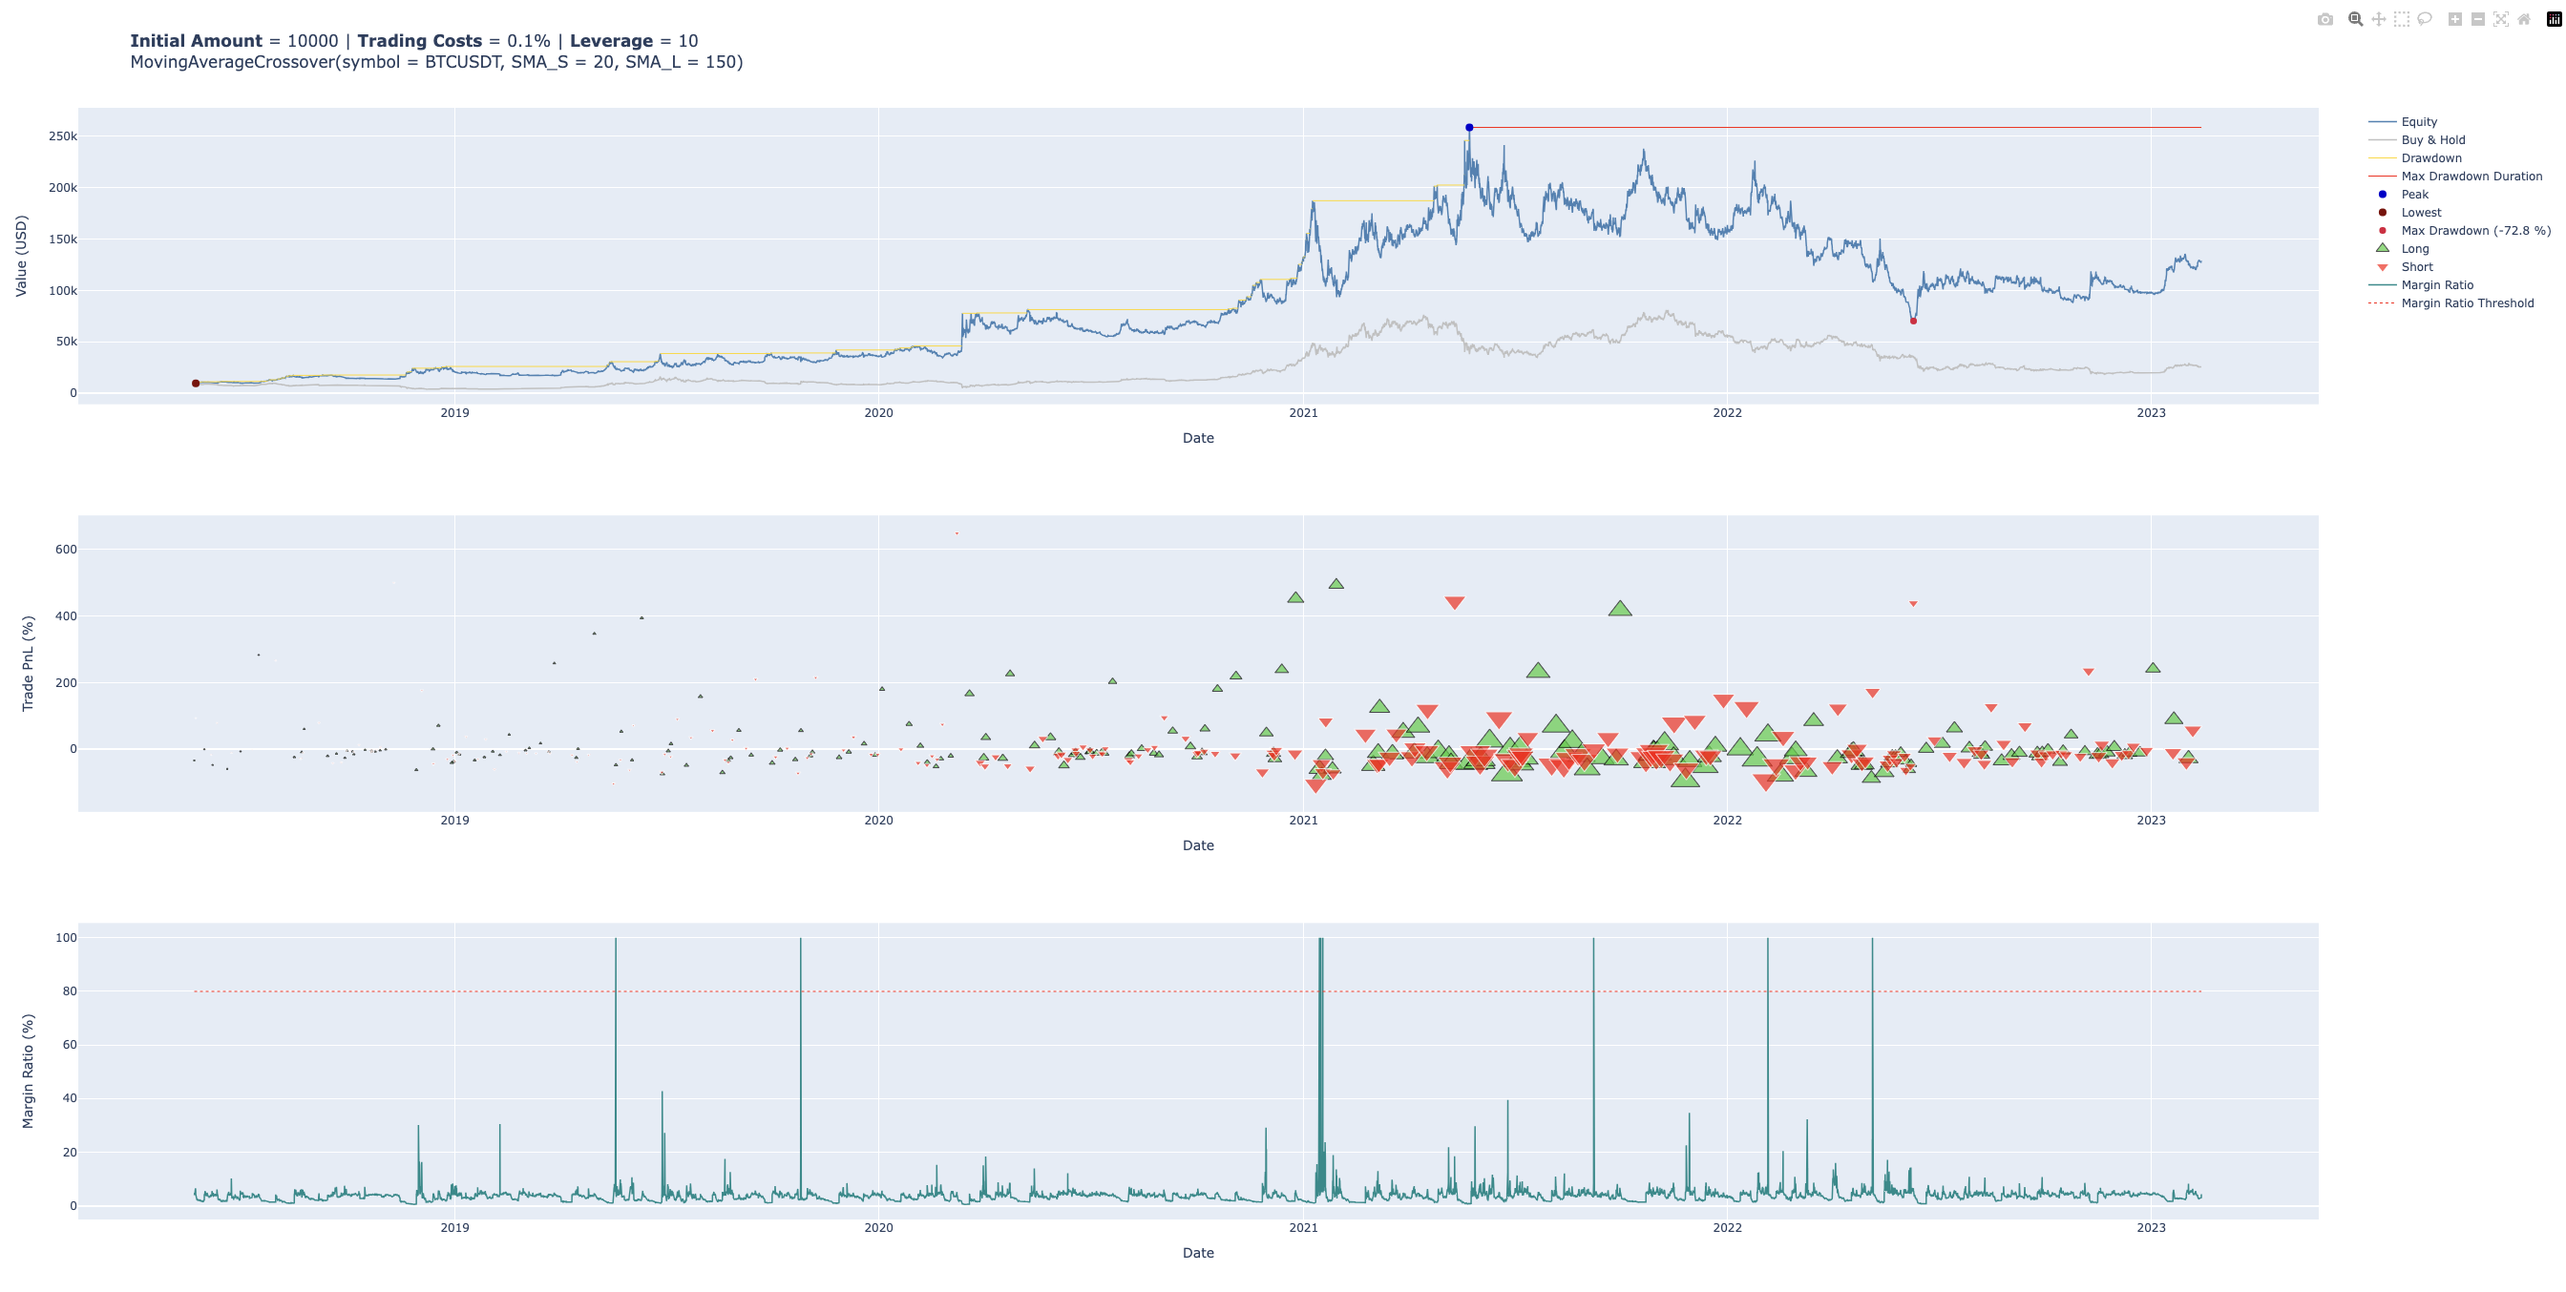
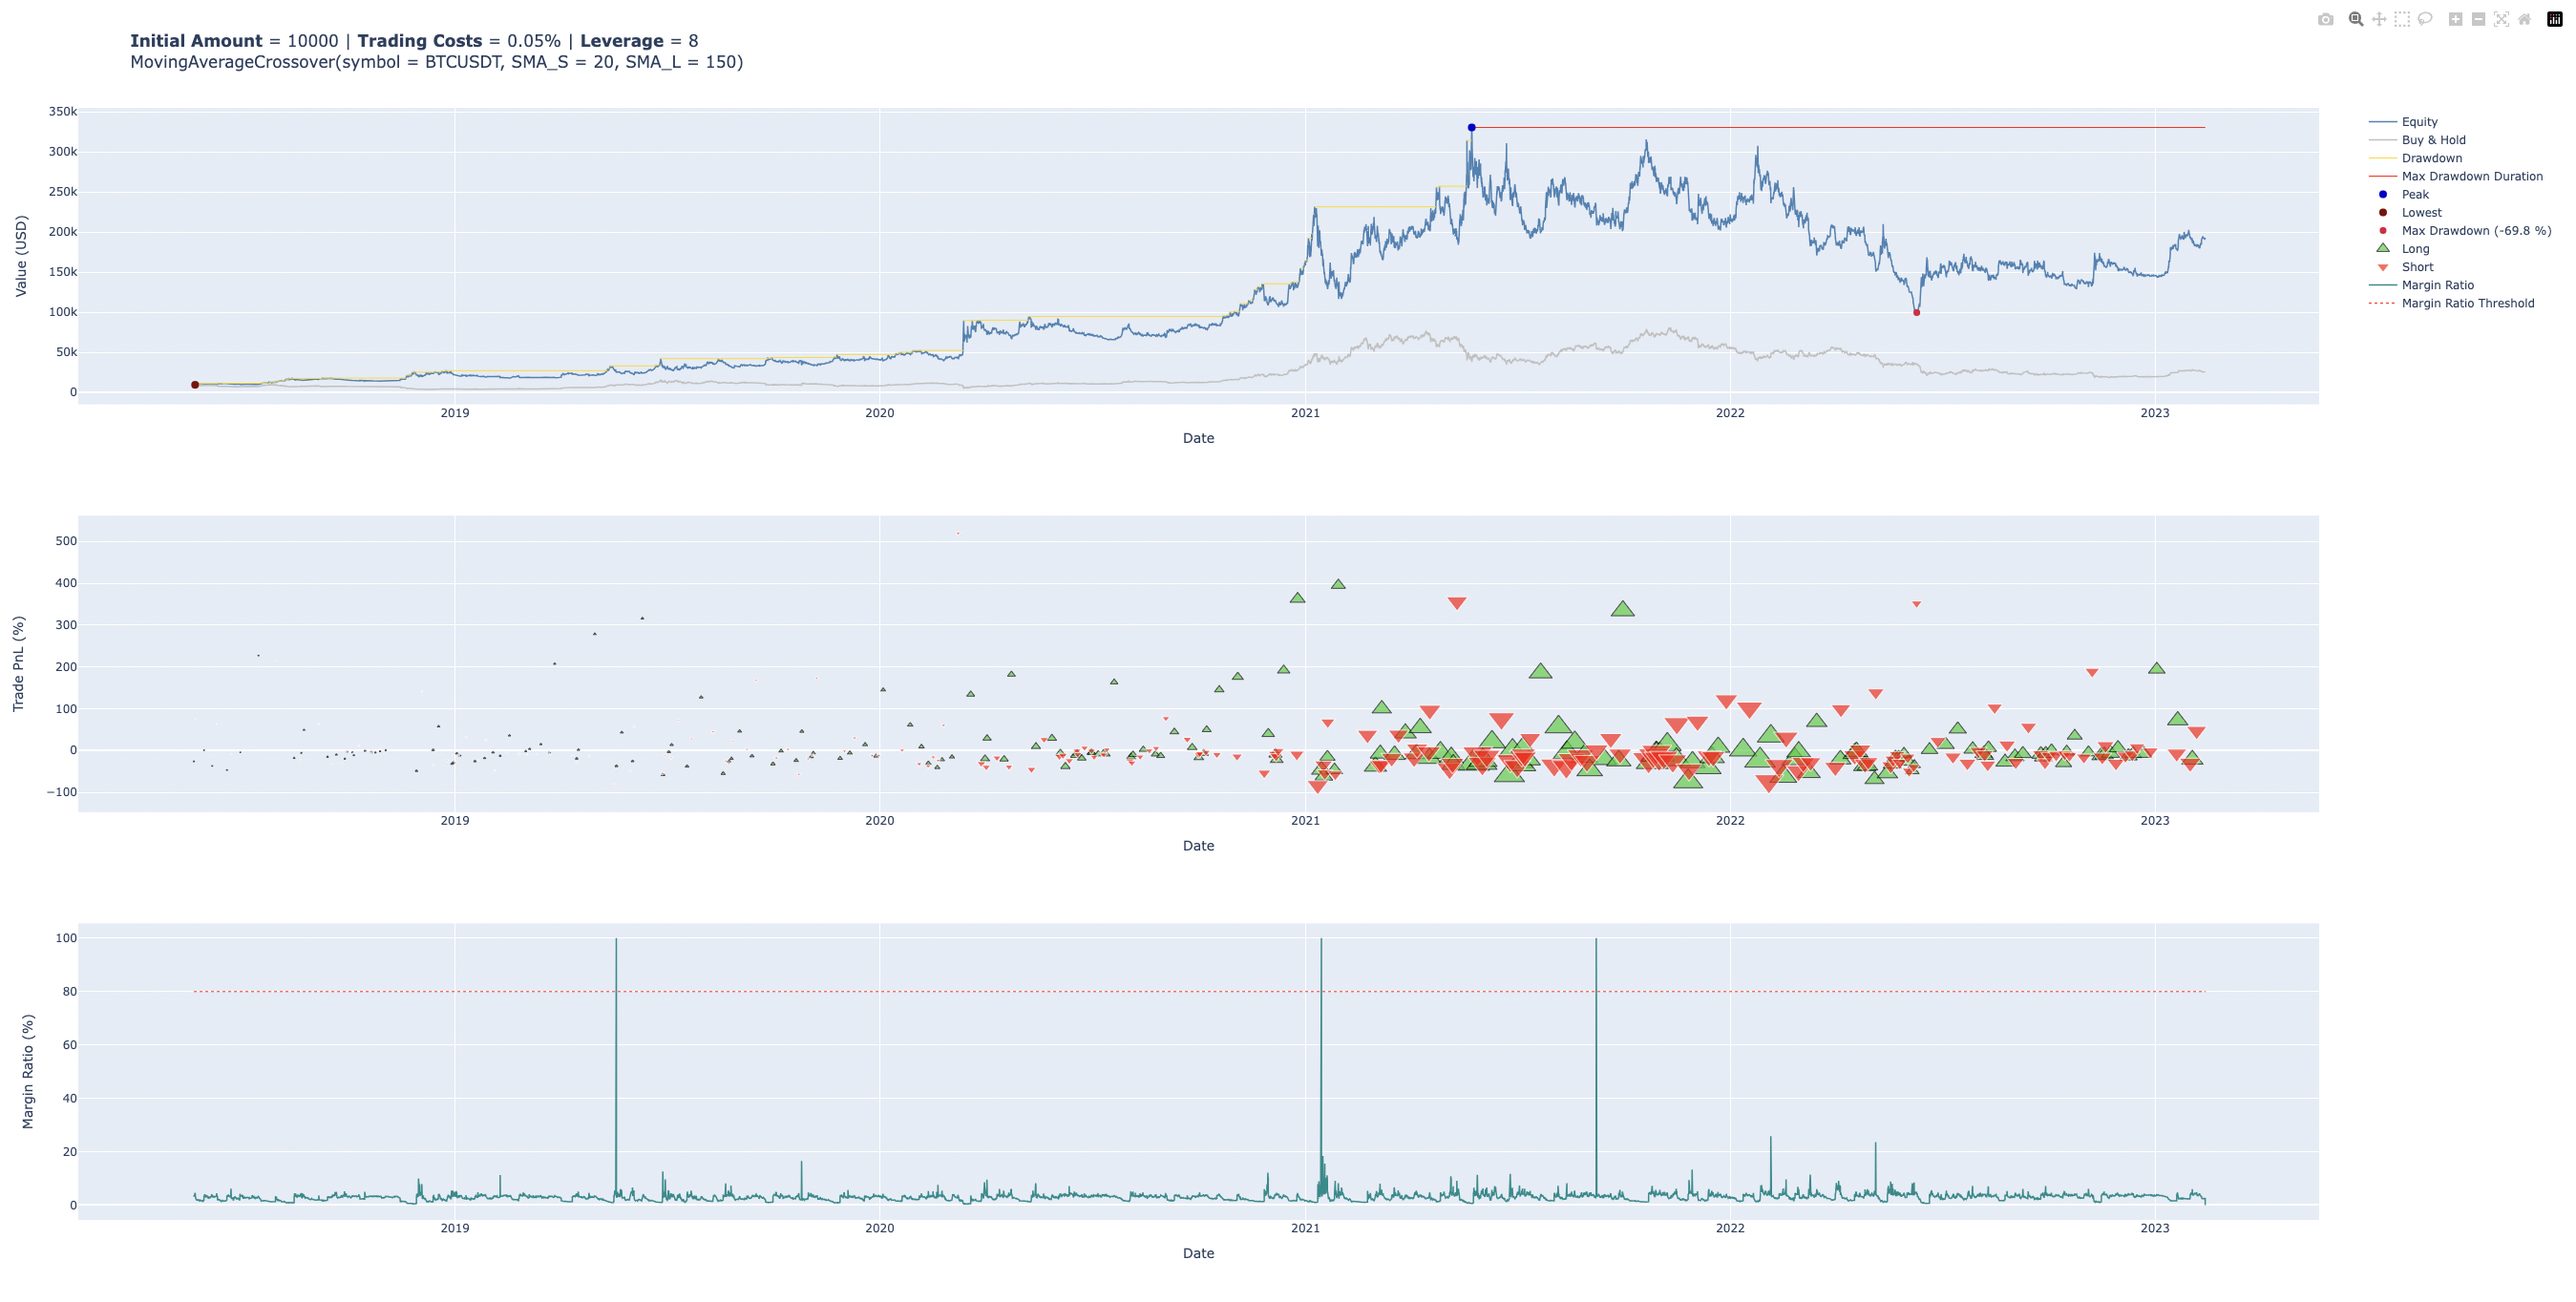
Add new results format to the README

diff --git a/MODEL_USAGE.md b/MODEL_USAGE.md
@@ -49,33 +49,56 @@ vect.run() # Runs the backtest and shows the results
 This will output the results in textual and graphical form.
 
 ```
-Total Duration: 4 years, 38 weeks and 4 days
-Start Date: 2018-05-23 13:00:00
-End Date: 2023-02-13 00:00:00
-Total Trades: 267
-Exposure Time [%]: 100.0
-Buy & Hold Return [%]: 175.98
-Total Return [%]: 221.6
-Equity Final [USDT]: 3212.75
-Equity Peak [USDT]: 5351.51
-Annualized Return [%]: 21.49
-Annualized Volatility [%]: 73.95
-Sharpe Ratio: 0.07
-Sortino Ratio: 0.28
-Calmar Ratio: 0.35
-Max Drawdown [%]: -61.18
-Avg Drawdown [%]: -8.2
-Max Drawdown Duration: 1 year, 38 weeks and 8 hours
-Avg Drawdown Duration: 3 weeks, 2 days and 13 hours
-Win Rate [%]: 32.21
-Best Trade [%]: 87.77
-Worst Trade [%]: -26.76
-Avg Trade [%]: 0.09
-Max Trade Duration: 5 weeks, 3 days and 14 hours
-Avg Trade Duration: 6 days, 11 hours and 11 minutes
-Profit Factor: 1.0
-Expectancy [%]: 5.75
-System Quality Number: -0.02
+**************************************************
+               BACKTESTING RESULTS                
+**************************************************
+                     Overview                     
+--------------------------------------------------
+Total Duration                4 years and 38 weeks
+Start Date                     2018-05-23 13:00:00
+End Date                       2023-02-13 00:00:00
+Trading Costs [%]                              0.1
+Leverage [x]                                     1
+Initial Equity [USDT]                         1000
+Exposed Capital [USDT]                      1000.0
+Exposure Time [%]                            100.0
+--------------------------------------------------
+                     Returns                      
+--------------------------------------------------
+Total Return [%]                             221.6
+Equity Final [USDT]                        3212.75
+Equity Peak [USDT]                         5351.51
+Annualized Return [%]                        21.49
+Annualized Volatility [%]                    73.95
+Buy & Hold Return [%]                       175.98
+--------------------------------------------------
+                    Drawdowns                     
+--------------------------------------------------
+Max Drawdown [%]                            -61.18
+Avg Drawdown [%]                              -8.2
+Max Drawdown Duration          1 year and 38 weeks
+Avg Drawdown Duration           3 weeks and 2 days
+--------------------------------------------------
+                      Trades                      
+--------------------------------------------------
+Total Trades                                   267
+Win Rate [%]                                 32.21
+Best Trade [%]                               87.77
+Worst Trade [%]                             -21.11
+Avg Trade [%]                                 0.44
+Max Trade Duration              5 weeks and 3 days
+Avg Trade Duration             6 days and 11 hours
+--------------------------------------------------
+                      Ratios                      
+--------------------------------------------------
+Sharpe Ratio                                  0.07
+Sortino Ratio                                 0.28
+Calmar Ratio                                  0.35
+Profit Factor                                  1.0
+Expectancy [%]                                 5.9
+System Quality Number                        -0.02
+--------------------------------------------------
+**************************************************
 ```
 
 <p align="left">
@@ -104,33 +127,56 @@ ite.run() # Runs the backtest and shows the results
 This will output the results in textual and graphical form.
 
 ```
-Total Duration: 4 years, 39 weeks and 4 days
-Start Date: 2018-05-16 15:00:00
-End Date: 2023-02-13 00:00:00
-Total Trades: 3140
-Exposure Time [%]: 100.0
-Buy & Hold Return [%]: 163.16
-Total Return [%]: 1642.05
-Equity Final [USDT]: 17420.49
-Equity Peak [USDT]: 29566.42
-Annualized Return [%]: 61.01
-Annualized Volatility [%]: 70.98
-Sharpe Ratio: 0.17
-Sortino Ratio: 0.8
-Calmar Ratio: 1.09
-Max Drawdown [%]: -56.09
-Avg Drawdown [%]: -5.46
-Max Drawdown Duration: 1 year, 22 weeks and 4 days
-Avg Drawdown Duration: 1 week, 1 day and 20 hours
-Win Rate [%]: 34.84
-Best Trade [%]: 31.32
-Worst Trade [%]: -14.73
-Avg Trade [%]: 0.05
-Max Trade Duration: 2 days and 14 hours
-Avg Trade Duration: 13 hours, 14 minutes and 55.41 seconds
-Profit Factor: 1.01
-Expectancy [%]: 1.7
-System Quality Number: 0.17
+**************************************************
+               BACKTESTING RESULTS                
+**************************************************
+                     Overview                     
+--------------------------------------------------
+Total Duration                4 years and 39 weeks
+Start Date                     2018-05-16 15:00:00
+End Date                       2023-02-13 00:00:00
+Trading Costs [%]                              0.0
+Leverage [x]                                     1
+Initial Equity [USDT]                         1000
+Exposed Capital [USDT]                      1000.0
+Exposure Time [%]                            100.0
+--------------------------------------------------
+                     Returns                      
+--------------------------------------------------
+Total Return [%]                           1614.57
+Equity Final [USDT]                       17145.68
+Equity Peak [USDT]                        29566.42
+Annualized Return [%]                        60.58
+Annualized Volatility [%]                    70.99
+Buy & Hold Return [%]                       163.16
+--------------------------------------------------
+                    Drawdowns                     
+--------------------------------------------------
+Max Drawdown [%]                            -56.09
+Avg Drawdown [%]                             -5.46
+Max Drawdown Duration          1 year and 22 weeks
+Avg Drawdown Duration             1 week and 1 day
+--------------------------------------------------
+                      Trades                      
+--------------------------------------------------
+Total Trades                                  3136
+Win Rate [%]                                 34.92
+Best Trade [%]                               45.61
+Worst Trade [%]                             -12.84
+Avg Trade [%]                                 0.09
+Max Trade Duration             2 days and 14 hours
+Avg Trade Duration         13 hours and 15 minutes
+--------------------------------------------------
+                      Ratios                      
+--------------------------------------------------
+Sharpe Ratio                                  0.17
+Sortino Ratio                                  0.8
+Calmar Ratio                                  1.08
+Profit Factor                                 1.01
+Expectancy [%]                                1.72
+System Quality Number                         0.16
+--------------------------------------------------
+**************************************************
 ```
 <p align="left">
   <img src="shared/utils/drawings/iterative_results.png" style="width: 100%" />
@@ -151,7 +197,7 @@ from model.backtesting import VectorizedBacktester
 from model.strategies import MovingAverageCrossover
 
 symbol = "BTCUSDT"
-trading_costs = 0.1 # This should be in percentage, i.e. 0.1% 
+trading_costs = 0.05
 
 mov_avg = MovingAverageCrossover(20, 150)
 
@@ -161,7 +207,7 @@ vect = VectorizedBacktester(
     amount=10000,
     trading_costs=trading_costs,
     include_margin=True,  # This tells the backtester to include the margin calculations 
-    leverage=10  # Here one can choose the desired leverage
+    leverage=8  # Here one can choose the desired leverage
 )
 
 vect.load_data()
@@ -171,44 +217,64 @@ vect.run()
 This will output the following results and plot:
 
 ```
-Total Duration: 4 years, 38 weeks and 6 days
-Total Trades: 406
-Start Date: 2018-05-21 11:00:00
-End Date: 2023-02-13 00:00:00
-Trading Costs [%]: 0.1
-Leverage [x]: 10
-Initial Capital [USDT]: 10000
-Exposed Capital [USDT]: 1000.0
-Exposure Time [%]: 100.0
-Buy & Hold Return [%]: 1575.25
-Total Return [%]: 11823.16
-Equity Final [USDT]: 128103.44
-Equity Peak [USDT]: 258579.01
-Annualized Return [%]: 124.56
-Annualized Volatility [%]: 71.89
-Sharpe Ratio: 0.15
-Sortino Ratio: 0.7
-Calmar Ratio: 0.73
-Max Drawdown [%]: -72.82
-Avg Drawdown [%]: -6.23
-Max Drawdown Duration: 1 year, 38 weeks and 8 hours
-Avg Drawdown Duration: 1 week, 2 days and 23 hours
-Win Rate [%]: 28.08
-Best Trade [%]: 492.58
-Worst Trade [%]: -117.4
-Avg Trade [%]: 0
-Max Trade Duration: 3 weeks, 4 days and 2 hours
-Avg Trade Duration: 4 days, 6 hours and 10 minutes
-Profit Factor: 1.04
-Expectancy [%]: 4.48
-System Quality Number: 0.19
+**************************************************
+               BACKTESTING RESULTS                
+**************************************************
+                     Overview                     
+--------------------------------------------------
+Total Duration                4 years and 38 weeks
+Start Date                     2018-05-21 11:00:00
+End Date                       2023-02-13 00:00:00
+Trading Costs [%]                             0.05
+Leverage [x]                                     8
+Initial Equity [USDT]                        10000
+Exposed Capital [USDT]                      1250.0
+Exposure Time [%]                            100.0
+--------------------------------------------------
+                     Returns                      
+--------------------------------------------------
+Total Return [%]                          14588.33
+Equity Final [USDT]                      192257.96
+Equity Peak [USDT]                       330531.27
+Annualized Return [%]                       131.49
+Annualized Volatility [%]                    71.64
+Buy & Hold Return [%]                       1260.2
+--------------------------------------------------
+                    Drawdowns                     
+--------------------------------------------------
+Max Drawdown [%]                            -69.84
+Avg Drawdown [%]                             -5.98
+Max Drawdown Duration          1 year and 38 weeks
+Avg Drawdown Duration            1 week and 2 days
+--------------------------------------------------
+                      Trades                      
+--------------------------------------------------
+Total Trades                                   406
+Win Rate [%]                                 29.31
+Best Trade [%]                              519.44
+Worst Trade [%]                             -83.34
+Avg Trade [%]                                -4.63
+Max Trade Duration              3 weeks and 4 days
+Avg Trade Duration              4 days and 6 hours
+--------------------------------------------------
+                      Ratios                      
+--------------------------------------------------
+Sharpe Ratio                                  0.17
+Sortino Ratio                                 0.84
+Calmar Ratio                                  0.91
+Profit Factor                                 1.07
+Expectancy [%]                                4.61
+System Quality Number                         0.33
+--------------------------------------------------
+**************************************************
 ```
 <p align="left">
   <img src="shared/utils/drawings/backtesting_with_margin.png" style="width: 100%" />
 </p>
 
-As evident from the results, employing a leverage of `10` led to at least 6 margin calls during the backtest, 
-making the overall strategy impractical in a real-world scenario.
+As evident from the results, employing a leverage of `8` led to 3 margin calls during the backtest, 
+showing that this particular strategy would have implied a total loss of the funds, unless more margin was
+added to the positions. 
 
 ### Optimization
 
